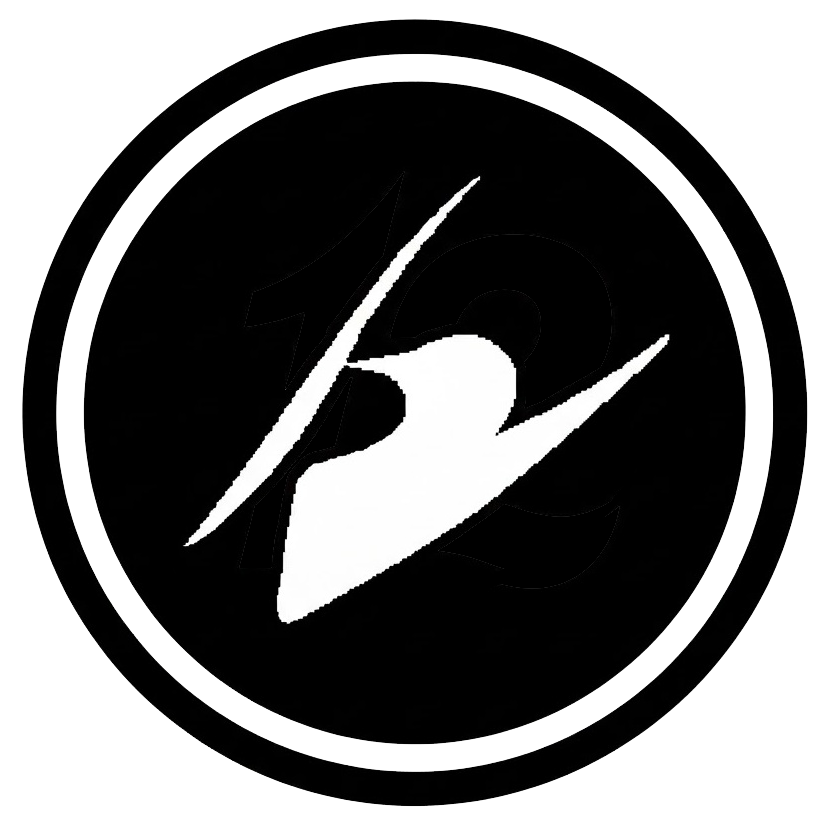
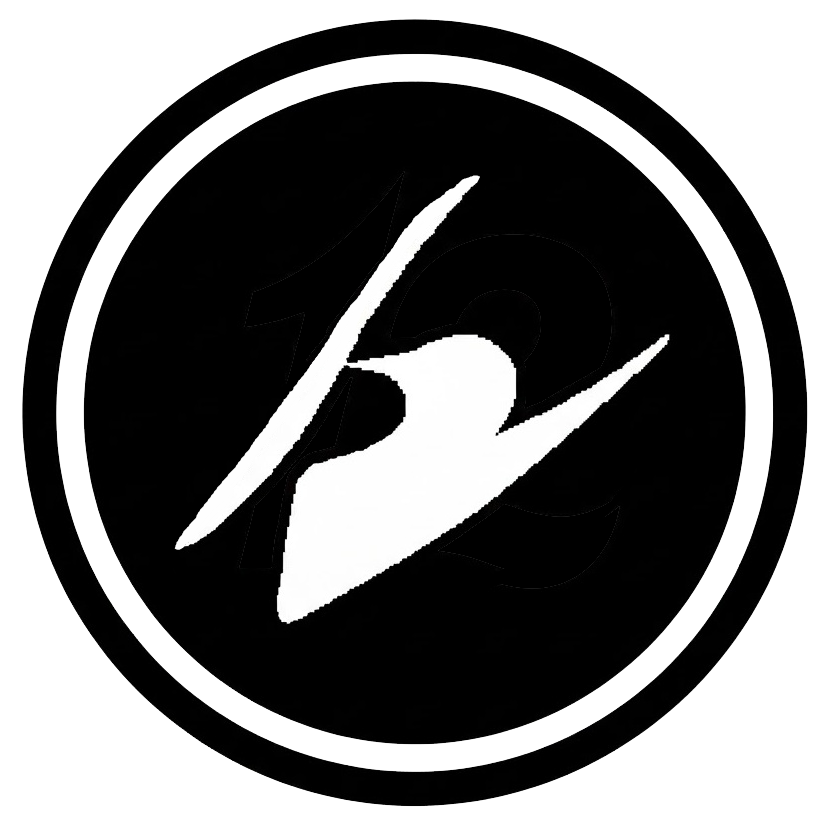
更新README和图标

diff --git a/README.md b/README.md
@@ -3,7 +3,7 @@
 **注意！该工具能自动获取的仅有航空警告！部分发射可以通过航行警告获知，航行警告暂时不能自动获取，如有需要请自行获取并手动输入坐标**<br>
 **已打包好的程序下载链接**<br>
 [蓝奏云](https://wwpj.lanzoul.com/notams)<br>
-[release](https://github.com/FallingFengre/notams/releases/tag/v1.6)<br>
+[release](https://github.com/FallingFengre/notams/releases/tag/v1.8)<br>
 **一、关于NOTAM和火箭发射落区**<br>
 - &ensp;&ensp;&ensp;&ensp;随着我国航天技术的不断发展进步，航天发射频率正在不断增加。我们常常能看见一些对某次发射型号、时间以及轨道等信息的预测。除根据目标轨道计算发射窗口、通过内部或公开信息渠道获取发射规划安排等方式，普通人提前获知火箭发射信息的重要方法之一就是分析相关NOTAM中包含的落区信息。NOTAM（飞行航行通告，飞行航警）是为通知飞行员相关空域或机场的特别安排、临时规定及运作程序的改变而发出的通告。火箭发射常常有残骸（一级、二级等）掉落，为了保障飞行安全，相关部门会在残骸预计会掉落的位置附近提前划出一个区域，禁止飞机飞入，这片区域就是火箭残骸落区。通过分析落区，我们可以获取包括火箭发射时间地点、大致轨道等信息，甚至能根据落区形状分布分析出火箭型号。  <br>
 - 火箭发射相关的NOTAM常常如下所示：  <br>
